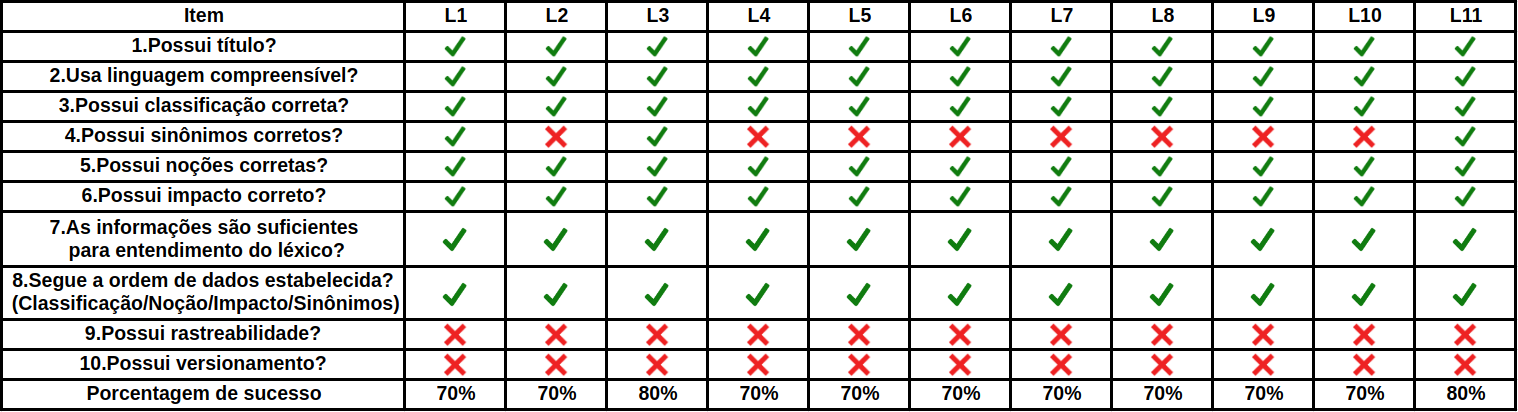
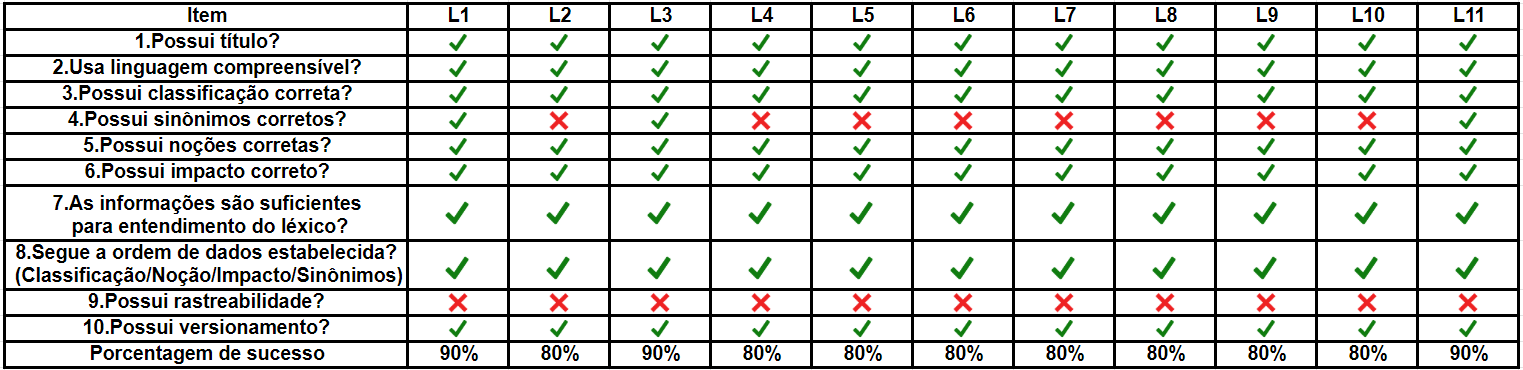
Verificação Lexicos

diff --git a/docs/verificacao_lexicos.md b/docs/verificacao_lexicos.md
@@ -10,26 +10,27 @@
 
 ## Observações
 
-| Léxico | Observações |
-| :-------: | ----------- |
-|  Todos  | - Revisar todos os cenários e adicionar rastreabilidade onde seja necessário, ajudando no versionamento |
-|   L1    | - Adicionar sinônimos |
-|   L4    | - Adicionar sinônimos |
-|   L5    | - Corrigir sinônimos |
-|   L6    | - Adicionar sinônimos |
-|   L7    | - Adicionar sinônimos |
-|   L8    | - Adicionar sinônimos |
-|   L9    | - Adicionar sinônimos |
-|   L10   | - Adicionar sinônimos |
+| Léxico | Observações                                                                                             |
+| :----: | ------------------------------------------------------------------------------------------------------- |
+| Todos  | - Revisar todos os cenários e adicionar rastreabilidade onde seja necessário, ajudando no versionamento |
+|   L1   | - Adicionar sinônimos                                                                                   |
+|   L4   | - Adicionar sinônimos                                                                                   |
+|   L5   | - Corrigir sinônimos                                                                                    |
+|   L6   | - Adicionar sinônimos                                                                                   |
+|   L7   | - Adicionar sinônimos                                                                                   |
+|   L8   | - Adicionar sinônimos                                                                                   |
+|   L9   | - Adicionar sinônimos                                                                                   |
+|  L10   | - Adicionar sinônimos                                                                                   |
 
 ## Conclusão
 
 <p align="justify">&emsp;&emsp;Pela análise feita a partir dos checkLists, os modelos gerados pelo grupo para o Audible ficaram bons. A falha mais notável nos modelos foi a falta de rastreabilidade, juntamente com vários casos em que não havia sinônimos ou estavam errados. As causas prováveis são: questões de tempo, atenção ou alinhamento com os outros membros.</p>
 
 ## Autores
-| Nome | Função |
-| ---- | ------ |
-| João Gabriel | Autor, Inspetor |
+
+| Nome          | Função           |
+| ------------- | ---------------- |
+| João Gabriel  | Autor, Inspetor  |
 | Marco Antônio | Leitor, Inspetor |
 
 ## Referências
@@ -39,7 +40,8 @@
 
 ## Versionamento
 
-| Data | Versão | Descrição | Autor |
-| ---- | ------ | --------- | ----- |
-| 04/11/2019 | 1.0 | Adicionando Verificação | [Ian Rocha](https://github.com/IanPSRocha) |
-| 04/11/2019 | 1.1 | Atualizando quadro | [Murilo Loiola](https://github.com/murilo-dan) |
+| Data       | Versão | Descrição               | Autor                                           |
+| ---------- | ------ | ----------------------- | ----------------------------------------------- |
+| 04/11/2019 | 1.0    | Adicionando Verificação | [Ian Rocha](https://github.com/IanPSRocha)      |
+| 04/11/2019 | 1.1    | Atualizando quadro      | [Murilo Loiola](https://github.com/murilo-dan)  |
+| 04/11/2019 | 1.2    | Atualizando quadro      | [Murilo Loiola](https://github.com/thallysbraz) |
